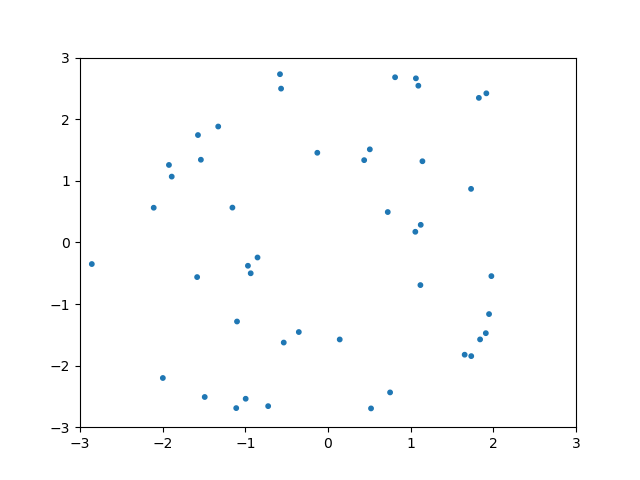
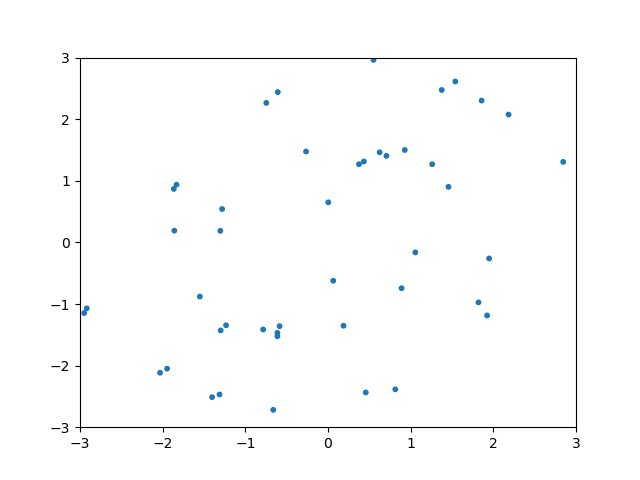
generic commit

diff --git a/scripts/transport/K_VAE.py b/scripts/transport/K_VAE.py
@@ -319,10 +319,10 @@ def run():
     range = [[-4, 4], [-4, 4]]
 
 
-    VAE_transport_exp(ref_gen, target_gen, N=5000, t_iter=10001,
+    VAE_transport_exp(ref_gen, target_gen, N=3000, t_iter=6001,
                               exp_name='banana_VAE_exp1', params=exp_params, plt_range=range)
 
-    transport_exp(ref_gen, target_gen, N=5000, t_iter=10001,
+    transport_exp(ref_gen, target_gen, N=3000, t_iter=6001,
                   exp_name='banana_exp1', params=exp_params, plt_range=range)
 
 

diff --git a/scripts/transport/c_transport.py b/scripts/transport/c_transport.py
@@ -503,7 +503,7 @@ def run():
     slice_range = [-3,3]
     process_funcs = []
     #process_funcs = [flip_2tensor, flip_2tensor ]
-    conditional_transport_exp(ref_gen, target_gen, exp_name= 'spiral_hybrid', N = 5000, n_iter = 10000,
+    conditional_transport_exp(ref_gen, target_gen, exp_name= 'spiral_hybrid', N = 50, n_iter = 200,
                               plt_range=range, slice_range= slice_range, process_funcs=process_funcs, slice_vals=[0])
 
 
